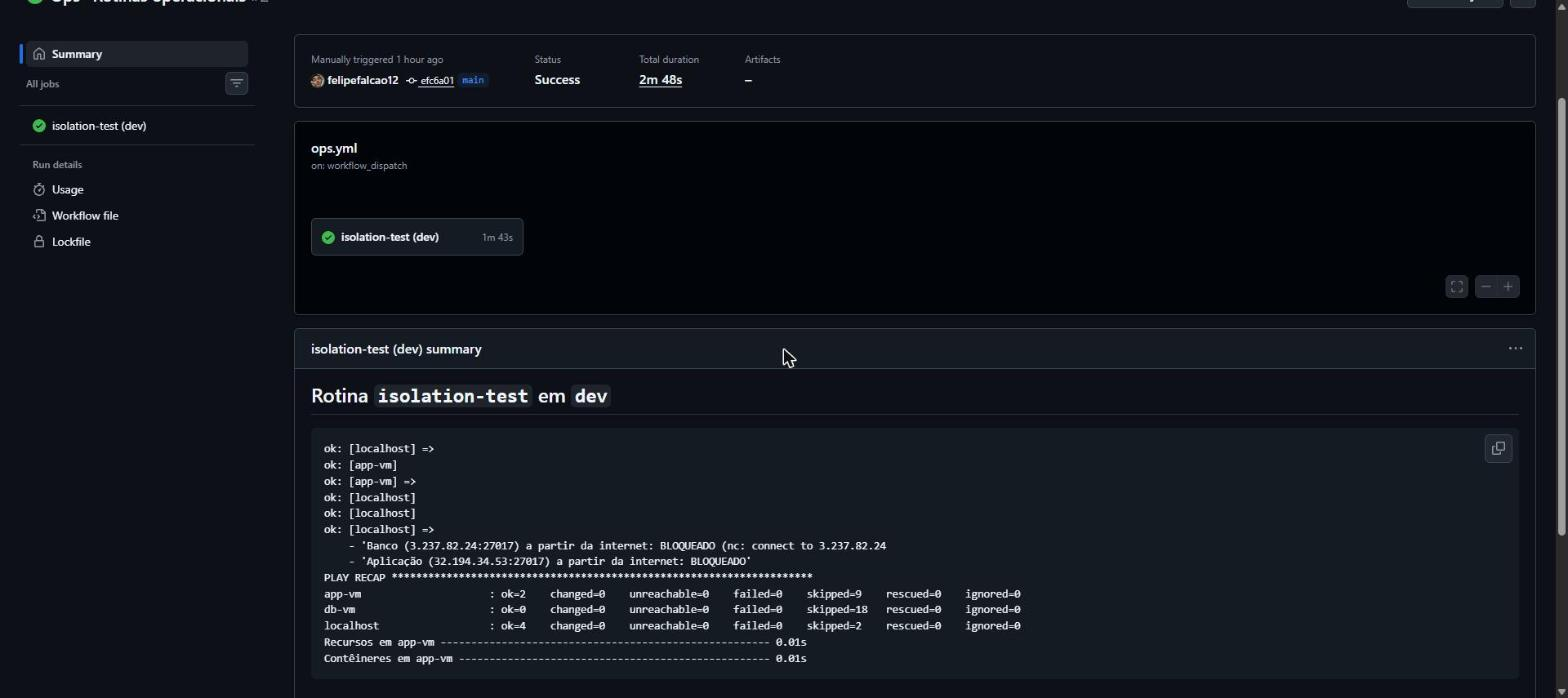
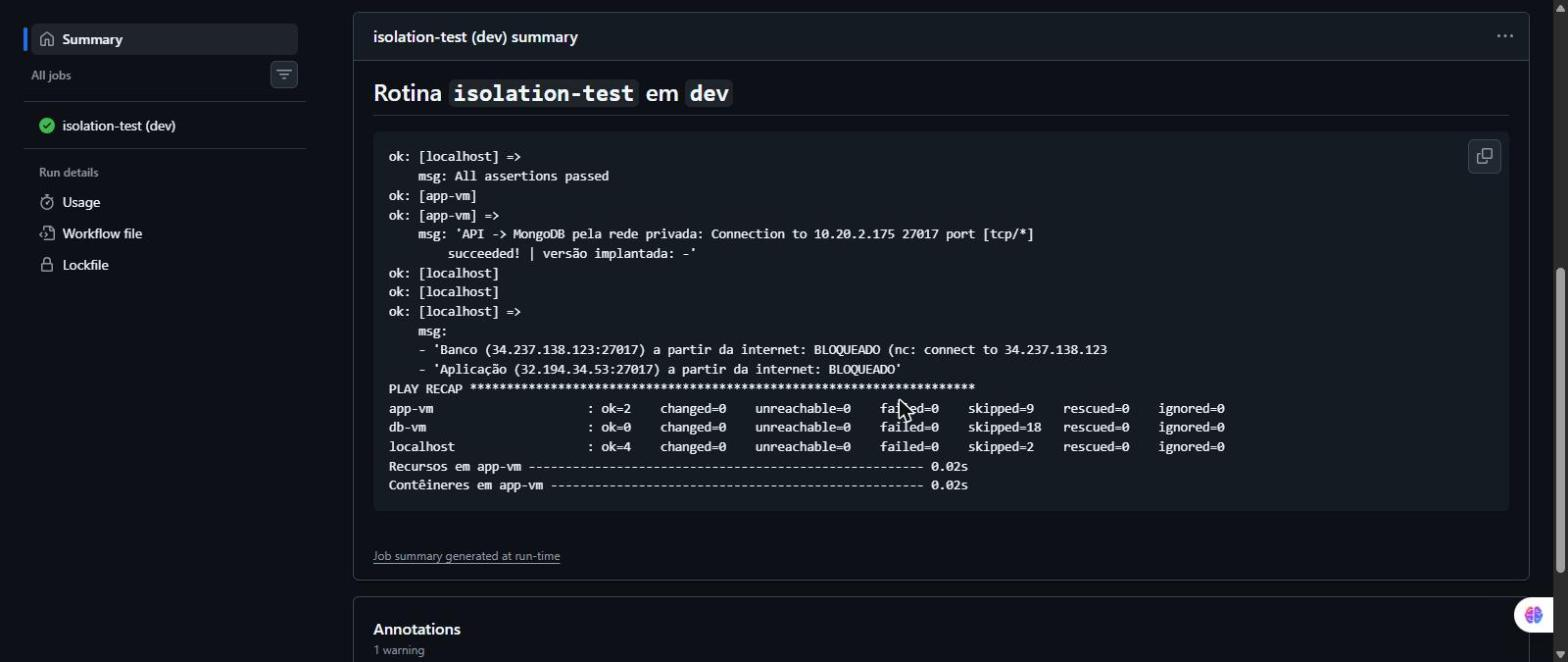
docs(pm04): auditoria da entrega — checklist, inventário e acessos, etapas, custos por VM, manual com resultados esperados e novas evidências
Claude-Session: https://claude.ai/code/session_011fTWNKz7YHAs1gAXnowpR6

diff --git a/infra/scripts/gerar-entrega-pdf.py b/infra/scripts/gerar-entrega-pdf.py
@@ -176,10 +176,12 @@ EVIDENCIAS = [
     ]),
     ("Operação, segurança e recuperação", [
         ("15-app-health", "Saúde pública: API conectada ao MongoDB, versão implantada"),
-        ("16-ace03-isolamento", "Isolamento (ACE-03): porta 27017 bloqueada a partir da internet"),
+        ("16-ace03-isolamento", "Isolamento (ACE-03): API→MongoDB pela rede privada e porta 27017 bloqueada a partir da internet"),
         ("17-ace07-backup", "Backup do MongoDB enviado ao S3 (ACE-07)"),
+        ("19-ace07-backup-automatico-cron", "Backup automatizado: cron executou sozinho às 06:00 e enviou ao S3 (ACE-07)"),
         ("18-ace07-restore-test", "Restauração testada em ambiente isolado: contagem confere (ACE-07)"),
         ("40-ops-health", "Rotina de saúde: contêineres, API→banco e URL pública (ACE-08)"),
+        ("41-ops-restart", "Reinício controlado dos serviços: banco primeiro, depois API e frontend; URL pública 200 (ACE-05/08)"),
         ("42-ops-reset-demo", "Preparação intencional da lista para a apresentação, com backup antes (ACE-10)"),
     ]),
 ]
@@ -251,10 +253,10 @@ def main():
     story += markdown(arq)
 
     resultados = (ROOT / "docs/pm04/resultados.md").read_text(encoding="utf-8")
-    story += [PageBreak(), Paragraph("9. Resultados dos testes", S["h2"])]
+    story += [PageBreak(), Paragraph("11. Resultados dos testes", S["h2"])]
     story += markdown(resultados)
 
-    story += [PageBreak(), Paragraph("10. Evidências de execução", S["h2"]),
+    story += [PageBreak(), Paragraph("12. Evidências de execução", S["h2"]),
               Paragraph("Capturas das execuções reais na AWS, feitas exclusivamente pelas pipelines do GitHub "
                         "Actions (aba Actions do repositório), sem acesso manual aos servidores.", S["body"]),
               Spacer(1, 6)]
@@ -270,8 +272,12 @@ def main():
 
     roteiro = (ROOT / "docs/pm04/roteiro-testes.md").read_text(encoding="utf-8")
     val = roteiro[roteiro.index("## Validação da demanda"):]
-    story += [Paragraph("11. Validação da demanda — critérios de aceite × evidências", S["h2"])]
+    story += [Paragraph("13. Validação da demanda — critérios de aceite × evidências", S["h2"])]
     story += markdown(val.split("\n", 1)[1])
+
+    checklist = (ROOT / "docs/pm04/checklist-entrega.md").read_text(encoding="utf-8")
+    story += [PageBreak(), Paragraph("14. Checklist da entrega", S["h2"])]
+    story += markdown(checklist)
 
     manual = (ROOT / "docs/pm04/manual-operacao.md").read_text(encoding="utf-8")
     story += [PageBreak(), Paragraph("Anexo — Manual de operação para os alunos", S["h2"])]
